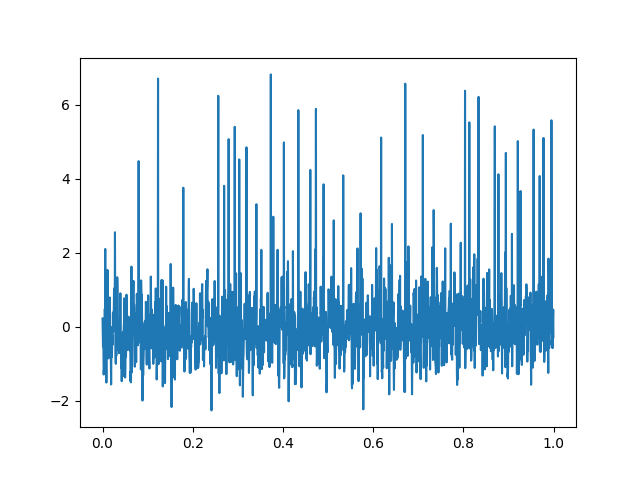
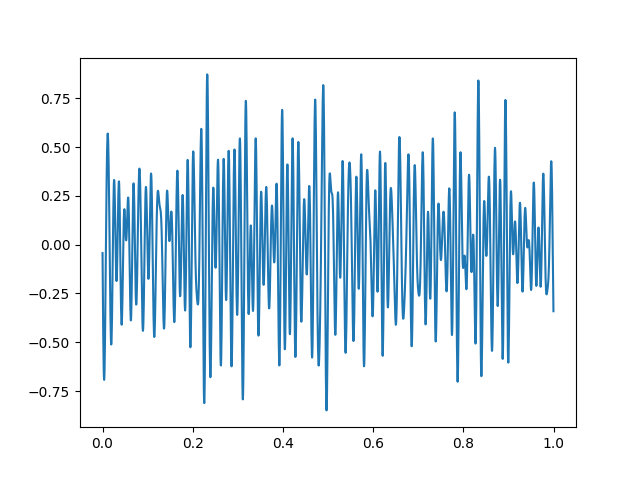
Fix eeg plot error

diff --git a/painter/plots.py b/painter/plots.py
@@ -5,6 +5,7 @@ import numpy as np
 import core.antslogger as log
 import core.ants as ants
 import painter.__painter as painter
+import preprocessing.filters as filters
 import postprocessing.power as power
 import postprocessing.scale as scale
 import matplotlib.pyplot as plt
@@ -71,26 +72,41 @@ class Plots(painter.Painter):
             fig.savefig(os.path.join(figure_path, 'power_spectrum.png'))
 
     def plot_eeg(self, **kwargs):
+        # Variables
+        samples = np.ndarray
+        time_s = np.ndarray
+
         figure_path = os.path.join(os.path.dirname(os.getcwd()), 'figures')
         os.makedirs(figure_path, exist_ok=True)  # make 'figures' directory
 
         fig, ax = plt.subplots()
 
+        # set plot samples
+        if 'filter' in kwargs:
+            filter = kwargs.get('filter')
+            if isinstance(filter, list) or isinstance(filter, np.ndarray):
+                samples = filters.Filters.butter(samples=self.samples, sample_frequency=self.sample_frequency,
+                                                 target_band=filter)  # filtered samples
+            else:
+                log.logger_handler.throw_error(err_code='0003', err_msg='Value Error')
+        else:
+            samples = self.samples  # default samples
+
         # plot eeg
         if 'duration' in kwargs:
             duration = kwargs.get('duration')
             if isinstance(duration, list) or isinstance(duration, np.ndarray):
-                self.time_s = scale.Scale.ts_to_sec(self.timestamps, self.sample_frequency)  # convert ts to second
-                _start = duration[0] * self.sample_frequency
-                _end = duration[-1] * self.sample_frequency
-                ax.plot(self.time_s[_start:_end], self.samples[_start:_end])
+                time_s = scale.Scale.ts_to_sec(self.timestamps, self.sample_frequency)  # convert ts to second
+                _start = int(duration[0] * self.sample_frequency)
+                _end = int(duration[-1] * self.sample_frequency)
+                ax.plot(time_s[_start:_end], samples[_start:_end])
             else:
                 log.logger_handler.throw_error(err_code='0003', err_msg='Value Error')
         else:
-            self.time_s = scale.Scale.ts_to_sec(self.timestamps, self.sample_frequency)  # convert ts to second
+            time_s = scale.Scale.ts_to_sec(self.timestamps, self.sample_frequency)  # convert ts to second
             _start = 0
-            _end = len(self.time_s)
-            ax.plot(self.time_s[_start:_end], self.samples[_start:_end])  # default plot
+            _end = len(time_s)
+            ax.plot(time_s[_start:_end], samples[_start:_end])  # default plot
             log.logger_handler.throw_warning(warn_code='0003', warn_msg='Value Warning: Few samples can be lost.')
 
         # save spectrum

diff --git a/preprocessing/filters.py b/preprocessing/filters.py
@@ -8,6 +8,14 @@ class Filters(preprocessing.Preprocessing):
 
     def bandpass_butter(self, target_band):
         nyquist = self.sample_frequency * 0.5
-        sos = sp.signal.butter(N=6, Wn=[f/nyquist for f in target_band], btype='bandpass',
+        sos = sp.signal.butter(N=6, Wn=[f / nyquist for f in target_band], btype='bandpass',
                                analog=False, output='sos')
         self.bandpass_samples = sp.signal.sosfiltfilt(sos=sos, x=self.samples)
+
+    @classmethod
+    def butter(cls, samples, sample_frequency, target_band):
+        nyquist = sample_frequency * 0.5
+        sos = sp.signal.butter(N=6, Wn=[f / nyquist for f in target_band], btype='bandpass',
+                               analog=False, output='sos')
+        bandpass_samples = sp.signal.sosfiltfilt(sos=sos, x=samples)
+        return bandpass_samples

diff --git a/core/test_main.py b/core/test_main.py
@@ -49,4 +49,4 @@ batch_ants = ants.Ants.batch(batch_size=len(path_list))  # make 'ants' as worker
 f, m, sem = ants.Ants.sem(batch=batch_ants)  # calculate sem
 ants.Ants().power_spectrum(freqs=f, mean=m, sem=sem, xscope=[0, 200])  # draw power spectrum with sem
 
-batch_ants[0].plot_eeg(duration=[0, 1])
+batch_ants[0].plot_eeg(duration=[0, 1], filter=[40, 100])

diff --git a/preprocessing/__preprocessing.py b/preprocessing/__preprocessing.py
@@ -12,3 +12,7 @@ class Preprocessing(timeseries.TimeSeries, metaclass=ABCMeta):
 
     def bandpass_butter(self, target_band):
         pass
+
+    @classmethod
+    def butter(cls, samples, sample_frequency, target_band):
+        pass
